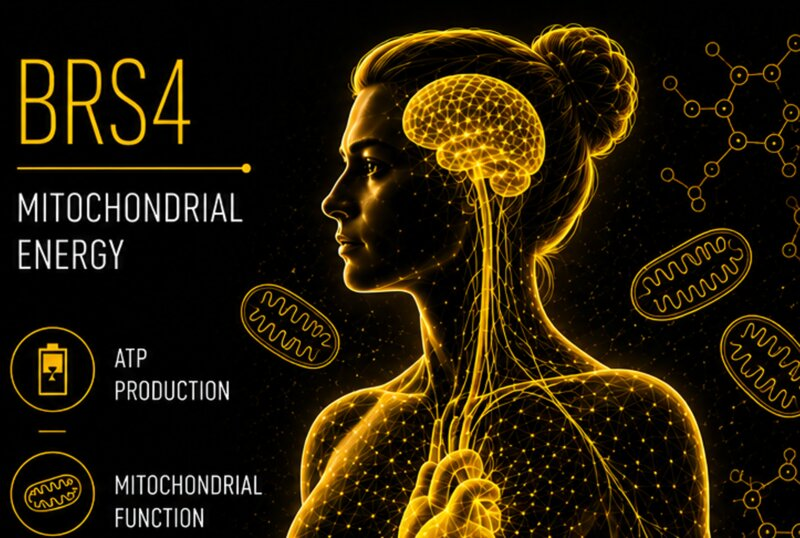
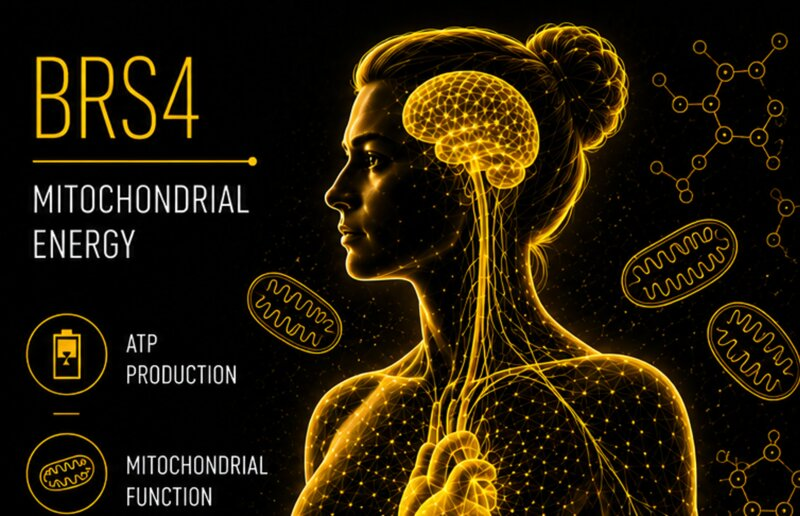
Ease BRS4 hub hero clip to preserve left-side label spacing.
Use a lighter source crop and asymmetric clip-path so white edge lines are trimmed without crowding the BRS4 text.

diff --git a/src/css/custom.css b/src/css/custom.css
@@ -110,9 +110,10 @@
 
 .brs-hub-hero-clip .brs-hub-hero {
   display: block;
-  width: 106%;
-  max-width: 106%;
-  margin-left: -3%;
+  width: 100%;
+  max-width: 100%;
+  margin-left: 0;
+  clip-path: inset(0 1.2% 0 0.35%);
 }
 
 .brs-hub-hero,